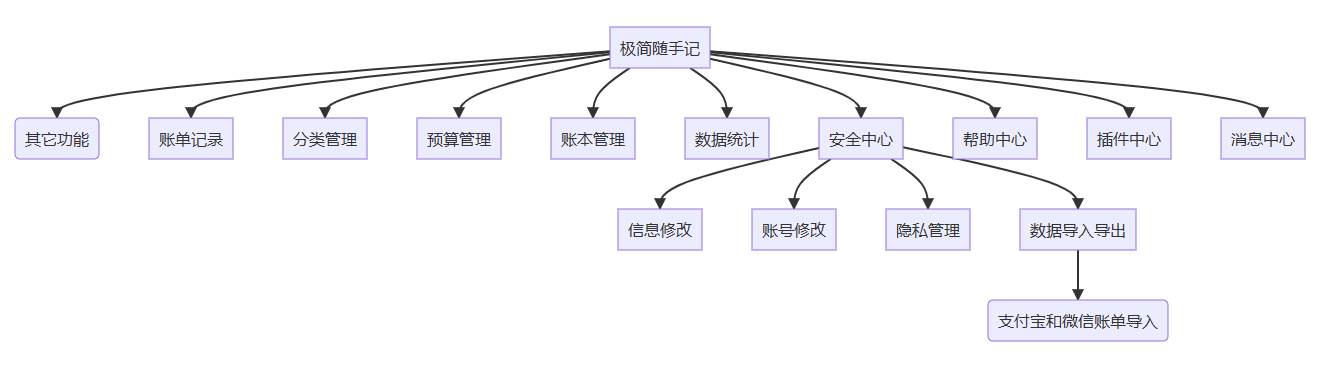
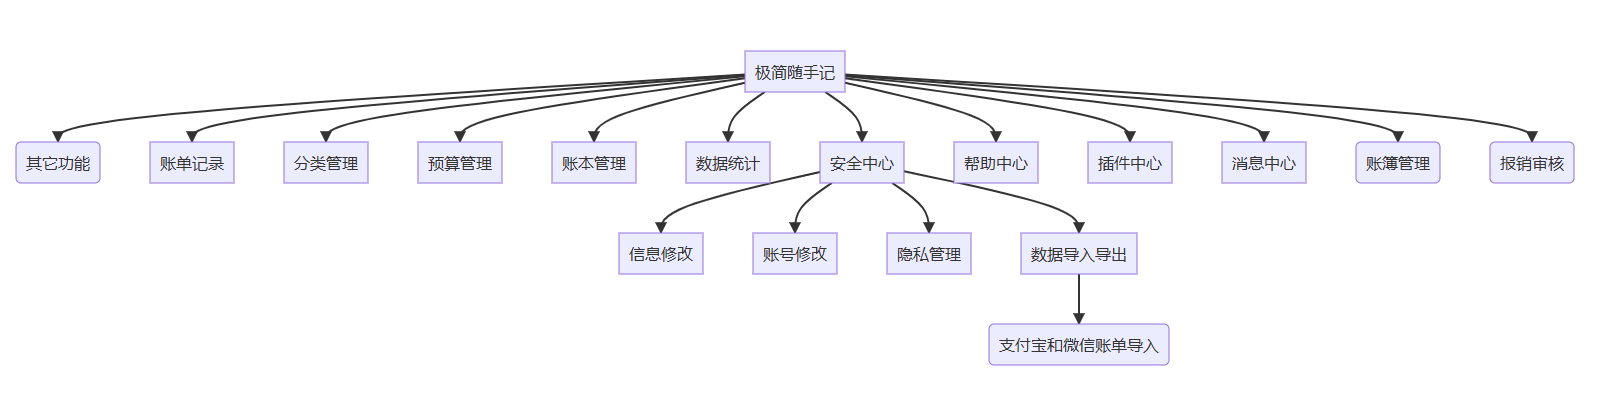
分支说明

diff --git a/README.md b/README.md
@@ -18,6 +18,26 @@
 ### 系统功能
 <img alt="系统功能" src="./unpackage/demo-image/app功能.png"   title="系统功能"/>
 
+### 分支对比，在线版本是pro版本
+| 功能模块/子模块     | Master | Pro   |
+|--------------|--------|-------|
+| **账单记录**     | ✔     | ✔    |
+| **分类管理**     | ✔     | ✔    |
+| **预算管理**     | ✔     | ✔    |
+| **账本管理**     | ✔     | ✔    |
+| **数据统计**     | ✔     | ✔    |
+| **安全中心**     | ✔     | ✔    |
+| - 信息修改       | ✔     | ✔    |
+| - 账号修改       | ✔     | ✔    |
+| - 隐私管理       | ✔     | ✔    |
+| - 数据导入导出     | ✔     | ✔    |
+| - 支付宝和微信账单导入 | ✔     | ✔    |
+| **帮助中心**     | ✔     | ✔    |
+| **插件中心**     | ✔     | ✔    |
+| **消息中心**     | ✔     | ✔    |
+| **账簿管理**       | ✔     | ✔    |
+| **报销管理**      | ❌     | ✔    |
+| **其它基础功能**   | ✔     | ✔    |
 
 ### 系统展示
 <img src="./unpackage/demo-image/gh_8d928c988fe5_258.jpg" width="200" title="微信小程序" />
